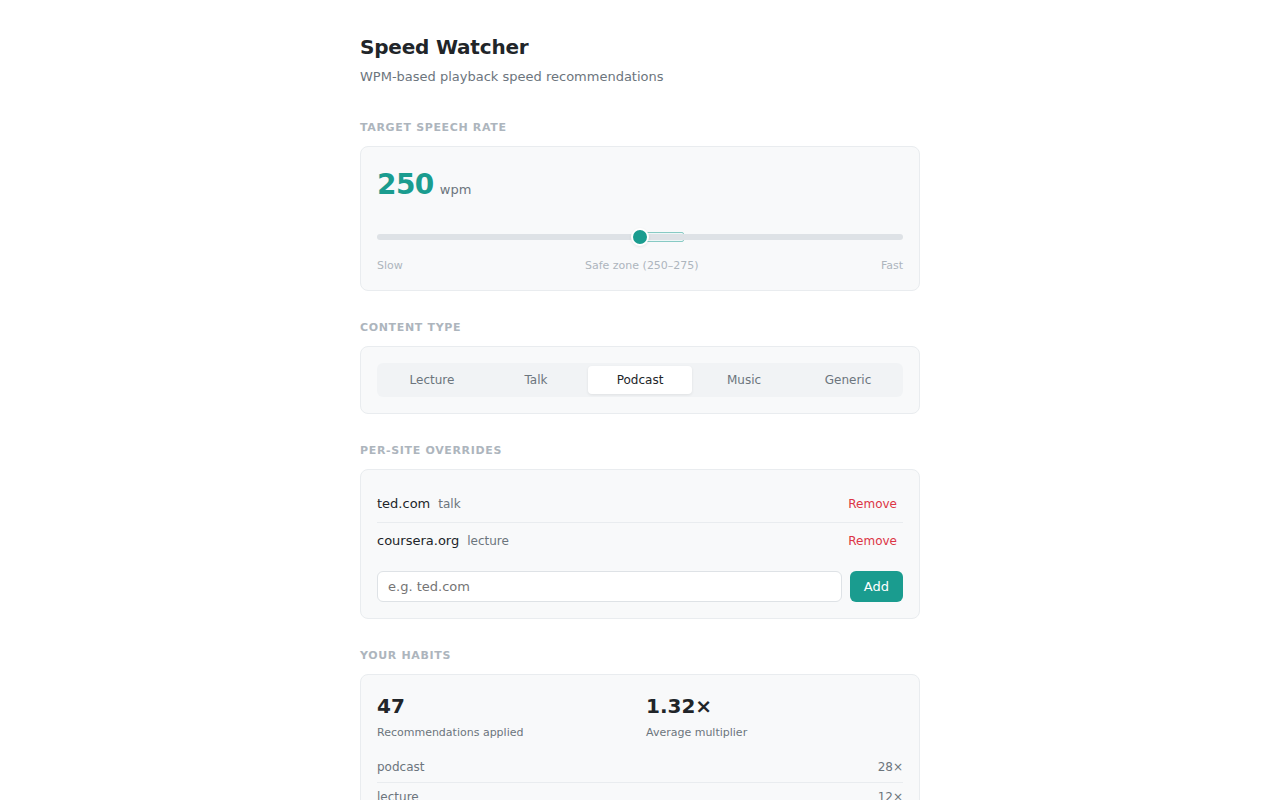
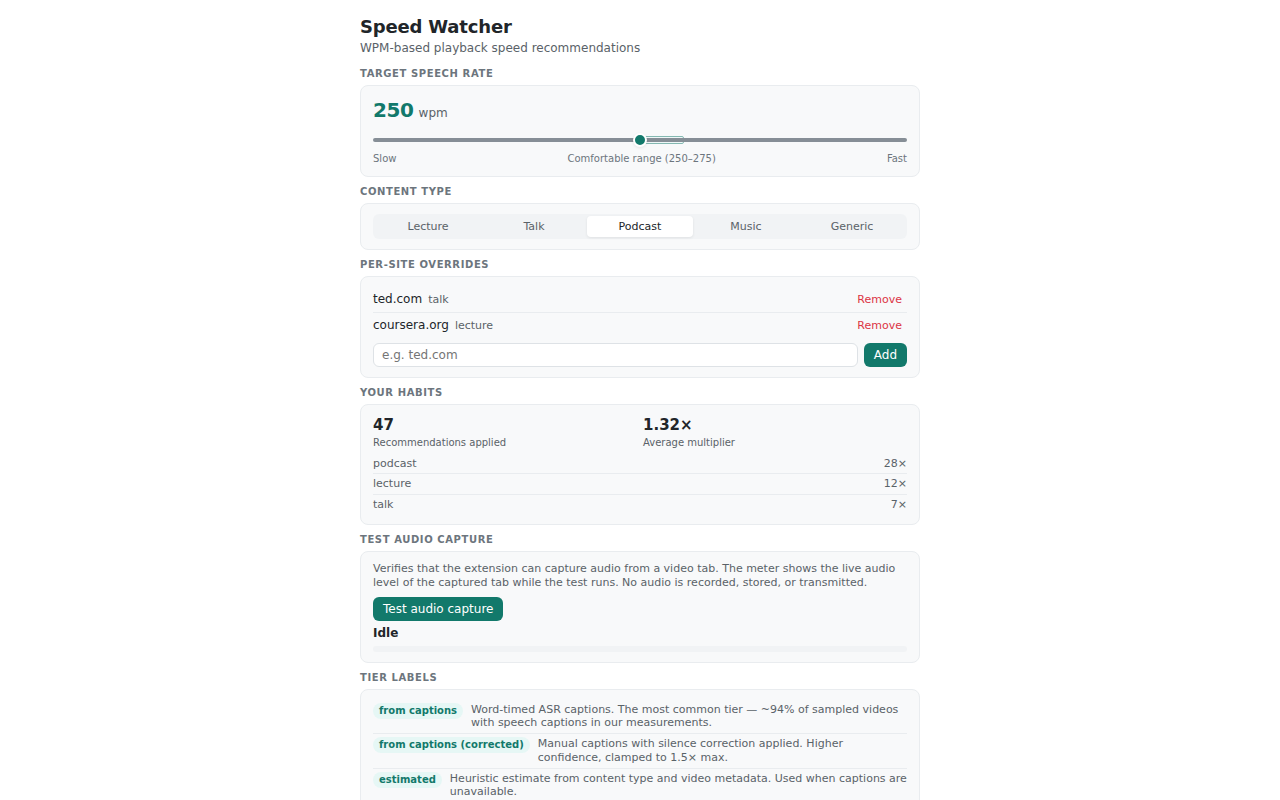
Regenerate store screenshot with current a11y palette and shipped sections
- Update CSS tokens to match ui/styles.ts (primary #12796b, textSecondary
  #5a6268, textMuted #6c757d, warning #b45309)
- Add audio capture test section (Idle state with description)
- Add tier labels section with updated ~94% coverage text
- Tighten layout to fit all sections in 1280x800 viewport
- Section labels as h2 elements matching shipped index.html
- Safe zone label updated to 'Comfortable range (250-275)'
- Realistic data: target 250, Podcast preset, ted/coursera overrides,
  47 recommendations, 1.32x avg multiplier

diff --git a/tools/cws-screenshot.html b/tools/cws-screenshot.html
@@ -12,12 +12,12 @@
         --sw-border: #dee2e6;
         --sw-border-subtle: #e9ecef;
         --sw-text: #212529;
-        --sw-text-secondary: #6c757d;
-        --sw-text-muted: #adb5bd;
-        --sw-primary: #1a9c8f;
-        --sw-primary-hover: #17897d;
+        --sw-text-secondary: #5a6268;
+        --sw-text-muted: #6c757d;
+        --sw-primary: #12796b;
+        --sw-primary-hover: #116960;
         --sw-primary-subtle: #e6f7f5;
-        --sw-warning: #d97706;
+        --sw-warning: #b45309;
         --sw-warning-subtle: #fef3c7;
         --sw-danger: #dc3545;
         --sw-danger-subtle: #fee2e2;
@@ -34,64 +34,71 @@
 
       body {
         font-family: system-ui, -apple-system, "Segoe UI", Roboto, "Helvetica Neue", Arial, sans-serif;
-        font-size: 14px;
-        line-height: 1.55;
+        font-size: 13px;
+        line-height: 1.4;
         color: var(--sw-text);
         background: var(--sw-bg);
         max-width: 600px;
         margin: 0 auto;
-        padding: 32px 20px 64px;
+        padding: 14px 20px 6px;
         -webkit-font-smoothing: antialiased;
       }
 
-      .header { margin-bottom: 32px; }
-      .header h1 { font-size: 20px; font-weight: 600; letter-spacing: -0.01em; margin-bottom: 4px; }
-      .header p { font-size: 13px; color: var(--sw-text-secondary); }
+      .header { margin-bottom: 10px; }
+      .header h1 { font-size: 18px; font-weight: 600; letter-spacing: -0.01em; margin-bottom: 1px; }
+      .header p { font-size: 12px; color: var(--sw-text-secondary); }
 
-      .section { margin-bottom: 28px; }
+      .section { margin-bottom: 8px; }
       .section-label {
-        font-size: 11px; font-weight: 600; text-transform: uppercase;
-        letter-spacing: 0.06em; color: var(--sw-text-muted); margin-bottom: 10px;
+        font-size: 10px; font-weight: 600; text-transform: uppercase;
+        letter-spacing: 0.06em; color: var(--sw-text-muted); margin-bottom: 4px;
       }
       .section-card {
         background: var(--sw-bg-subtle); border: 1px solid var(--sw-border-subtle);
-        border-radius: var(--sw-r-lg); padding: 16px;
+        border-radius: var(--sw-r-lg); padding: 10px 12px;
+      }
+      .section-note {
+        font-size: 11px; line-height: 1.3; color: var(--sw-text-secondary); margin-bottom: 6px;
       }
 
-      .wpm-display { display: flex; align-items: baseline; gap: 6px; margin-bottom: 12px; }
+      /* ── WPM Slider ──────────────────────────────────────────────── */
+
+      .wpm-display { display: flex; align-items: baseline; gap: 5px; margin-bottom: 4px; }
       .wpm-value {
-        font-size: 28px; font-weight: 700; letter-spacing: -0.02em;
+        font-size: 20px; font-weight: 700; letter-spacing: -0.02em;
         color: var(--sw-primary); font-variant-numeric: tabular-nums;
       }
-      .wpm-unit { font-size: 13px; color: var(--sw-text-secondary); }
+      .wpm-unit { font-size: 12px; color: var(--sw-text-secondary); }
 
-      .slider-track { position: relative; width: 100%; height: 36px; display: flex; align-items: center; }
+      .slider-track { position: relative; width: 100%; height: 24px; display: flex; align-items: center; }
       .slider-input {
-        -webkit-appearance: none; appearance: none; width: 100%; height: 6px;
-        background: var(--sw-border); border-radius: 3px; outline: none; position: relative; z-index: 2;
+        -webkit-appearance: none; appearance: none; width: 100%; height: 4px;
+        background: #868e96; border-radius: 2px; outline: none; position: relative; z-index: 2;
       }
       .slider-input::-webkit-slider-thumb {
-        -webkit-appearance: none; appearance: none; width: 18px; height: 18px;
+        -webkit-appearance: none; appearance: none; width: 14px; height: 14px;
         border-radius: 50%; background: var(--sw-primary); cursor: pointer;
         border: 2px solid var(--sw-bg); box-shadow: var(--sw-shadow);
       }
       .safe-zone {
-        position: absolute; top: 50%; transform: translateY(-50%); height: 10px;
+        position: absolute; top: 50%; transform: translateY(-50%); height: 8px;
         background: var(--sw-primary-subtle); border: 1px solid var(--sw-primary);
         border-radius: 2px; opacity: 0.5; pointer-events: none; z-index: 1;
         left: 50%; width: 8.33%;
       }
       .safe-zone-label {
-        display: flex; justify-content: space-between; margin-top: 2px;
-        font-size: 11px; color: var(--sw-text-muted);
+        display: flex; justify-content: space-between; margin-top: 0;
+        font-size: 10px; color: var(--sw-text-muted);
       }
+
+      /* ── Content Type Presets ────────────────────────────────────── */
 
       .presets {
         display: flex; gap: 0; background: var(--sw-bg-muted);
-        border-radius: var(--sw-r-md); padding: 3px;
+        border-radius: var(--sw-r-md); padding: 2px;
       }
       .preset-btn {
-        flex: 1; padding: 7px 0; font-family: inherit; font-size: 12px; font-weight: 500;
+        flex: 1; padding: 4px 0; font-family: inherit; font-size: 11px; font-weight: 500;
         color: var(--sw-text-secondary); background: transparent; border: none;
         border-radius: var(--sw-r-sm); cursor: pointer;
       }
@@ -99,55 +106,77 @@
         background: var(--sw-bg); color: var(--sw-text); box-shadow: var(--sw-shadow);
       }
 
-      .override-list { list-style: none; margin-bottom: 12px; }
+      /* ── Per-site Overrides ──────────────────────────────────────── */
+
+      .override-list { list-style: none; margin-bottom: 5px; }
       .override-item {
         display: flex; align-items: center; justify-content: space-between;
-        padding: 8px 0; border-bottom: 1px solid var(--sw-border-subtle); font-size: 13px;
+        padding: 4px 0; border-bottom: 1px solid var(--sw-border-subtle); font-size: 12px;
       }
       .override-item:last-child { border-bottom: none; }
       .override-hostname { font-weight: 500; }
-      .override-type { font-size: 12px; color: var(--sw-text-secondary); margin-left: 8px; }
+      .override-type { font-size: 11px; color: var(--sw-text-secondary); margin-left: 6px; }
       .override-remove {
-        font-size: 12px; color: var(--sw-danger); background: none; border: none;
-        cursor: pointer; padding: 2px 6px; border-radius: var(--sw-r-sm); font-family: inherit;
+        font-size: 11px; color: var(--sw-danger); background: none; border: none;
+        cursor: pointer; padding: 2px 5px; border-radius: var(--sw-r-sm); font-family: inherit;
       }
       .override-remove:hover { background: var(--sw-danger-subtle); }
-      .empty-note { font-size: 12px; color: var(--sw-text-muted); padding: 8px 0; }
-      .add-override { display: flex; gap: 8px; }
+      .add-override { display: flex; gap: 6px; }
       .add-override input {
-        flex: 1; padding: 7px 10px; font-family: inherit; font-size: 13px;
+        flex: 1; padding: 4px 8px; font-family: inherit; font-size: 12px;
         background: var(--sw-bg); border: 1px solid var(--sw-border);
         border-radius: var(--sw-r-md); color: var(--sw-text); outline: none;
       }
       .add-override button {
-        padding: 7px 14px; font-family: inherit; font-size: 13px; font-weight: 500;
+        padding: 4px 10px; font-family: inherit; font-size: 12px; font-weight: 500;
         background: var(--sw-primary); color: var(--sw-bg); border: none;
         border-radius: var(--sw-r-md); cursor: pointer;
       }
 
-      .habits-grid { display: grid; grid-template-columns: 1fr 1fr; gap: 12px; }
-      .habit-stat { display: flex; flex-direction: column; gap: 2px; }
+      /* ── Habits Report ───────────────────────────────────────────── */
+
+      .habits-grid { display: grid; grid-template-columns: 1fr 1fr; gap: 6px; }
+      .habit-stat { display: flex; flex-direction: column; gap: 0; }
       .habit-stat .stat-value {
-        font-size: 20px; font-weight: 700; font-variant-numeric: tabular-nums; color: var(--sw-text);
+        font-size: 15px; font-weight: 700; font-variant-numeric: tabular-nums; color: var(--sw-text);
       }
-      .habit-stat .stat-label { font-size: 11px; color: var(--sw-text-secondary); }
-      .habit-list { margin-top: 12px; list-style: none; }
+      .habit-stat .stat-label { font-size: 10px; color: var(--sw-text-secondary); }
+      .habit-list { margin-top: 4px; list-style: none; }
       .habit-list li {
-        display: flex; justify-content: space-between; padding: 5px 0;
-        font-size: 12px; color: var(--sw-text-secondary);
+        display: flex; justify-content: space-between; padding: 2px 0;
+        font-size: 11px; color: var(--sw-text-secondary);
         border-bottom: 1px solid var(--sw-border-subtle);
       }
       .habit-list li:last-child { border-bottom: none; }
 
+      /* ── Audio Capture Test ──────────────────────────────────────── */
+
+      #toggle {
+        padding: 5px 10px; font-family: inherit; font-size: 12px; font-weight: 500;
+        background: var(--sw-primary); color: var(--sw-bg); border: none;
+        border-radius: var(--sw-r-md); cursor: pointer;
+      }
+      #status { margin: 4px 0; font-weight: 600; font-size: 12px; }
+      #meter {
+        width: 100%; height: 6px; background: var(--sw-bg-muted);
+        border-radius: 3px; overflow: hidden;
+      }
+      #meter-fill {
+        height: 100%; width: 0%; background: var(--sw-primary);
+        border-radius: 3px;
+      }
+
+      /* ── Tier Info ───────────────────────────────────────────────── */
+
       .tier-list { list-style: none; }
-      .tier-item { display: flex; align-items: flex-start; gap: 10px; padding: 8px 0; }
+      .tier-item { display: flex; align-items: flex-start; gap: 8px; padding: 3px 0; }
       .tier-item + .tier-item { border-top: 1px solid var(--sw-border-subtle); }
       .tier-badge {
-        font-size: 11px; font-weight: 600; padding: 2px 8px;
+        font-size: 10px; font-weight: 600; padding: 1px 6px;
         border-radius: var(--sw-r-pill); background: var(--sw-primary-subtle);
         color: var(--sw-primary); white-space: nowrap; flex-shrink: 0;
       }
-      .tier-desc { font-size: 12px; color: var(--sw-text-secondary); line-height: 1.45; }
+      .tier-desc { font-size: 11px; color: var(--sw-text-secondary); line-height: 1.25; }
     </style>
   </head>
   <body>
@@ -157,7 +186,7 @@
     </div>
 
     <div class="section">
-      <div class="section-label">Target speech rate</div>
+      <h2 class="section-label" id="target-rate-label">Target speech rate</h2>
       <div class="section-card">
         <div class="wpm-display">
           <span class="wpm-value" id="wpm-value">250</span>
@@ -165,18 +194,18 @@
         </div>
         <div class="slider-track">
           <div class="safe-zone" id="safe-zone"></div>
-          <input type="range" class="slider-input" id="wpm-slider" min="100" max="400" step="5" value="250">
+          <input type="range" class="slider-input" id="wpm-slider" min="100" max="400" step="5" value="250" aria-labelledby="target-rate-label">
         </div>
         <div class="safe-zone-label">
           <span>Slow</span>
-          <span>Safe zone (250–275)</span>
+          <span>Comfortable range (250–275)</span>
           <span>Fast</span>
         </div>
       </div>
     </div>
 
     <div class="section">
-      <div class="section-label">Content type</div>
+      <h2 class="section-label">Content type</h2>
       <div class="section-card">
         <div class="presets" role="group" aria-label="Content type presets">
           <button class="preset-btn" data-type="lecture" aria-pressed="false">Lecture</button>
@@ -189,7 +218,7 @@
     </div>
 
     <div class="section">
-      <div class="section-label">Per-site overrides</div>
+      <h2 class="section-label">Per-site overrides</h2>
       <div class="section-card">
         <ul class="override-list" id="override-list">
           <li class="override-item">
@@ -201,7 +230,6 @@
             <button class="override-remove" aria-label="Remove override for coursera.org">Remove</button>
           </li>
         </ul>
-        <p class="empty-note" id="override-empty" hidden>No site overrides set.</p>
         <div class="add-override">
           <input type="text" id="override-input" placeholder="e.g. ted.com" aria-label="Hostname to override">
           <button type="button" id="override-add">Add</button>
@@ -210,7 +238,7 @@
     </div>
 
     <div class="section">
-      <div class="section-label">Your habits</div>
+      <h2 class="section-label">Your habits</h2>
       <div class="section-card">
         <div class="habits-grid">
           <div class="habit-stat">
@@ -230,13 +258,27 @@
       </div>
     </div>
 
+    <div class="section" id="probe-section">
+      <h2 class="section-label" id="probe-section-label">Test audio capture</h2>
+      <div class="section-card">
+        <p class="section-note">
+          Verifies that the extension can capture audio from a video tab. The meter
+          shows the live audio level of the captured tab while the test runs. No audio
+          is recorded, stored, or transmitted.
+        </p>
+        <button type="button" id="toggle">Test audio capture</button>
+        <div id="status" role="status">Idle</div>
+        <div id="meter"><div id="meter-fill"></div></div>
+      </div>
+    </div>
+
     <div class="section">
-      <div class="section-label">Tier labels</div>
+      <h2 class="section-label">Tier labels</h2>
       <div class="section-card">
         <ul class="tier-list">
           <li class="tier-item">
             <span class="tier-badge">from captions</span>
-            <span class="tier-desc">Word-timed ASR captions. The most common tier — covers ~77% of YouTube videos.</span>
+            <span class="tier-desc">Word-timed ASR captions. The most common tier — ~94% of sampled videos with speech captions in our measurements.</span>
           </li>
           <li class="tier-item">
             <span class="tier-badge">from captions (corrected)</span>
